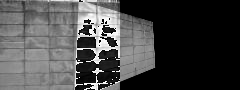
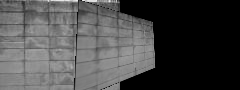
2017/6/19

Changed region(s): [[0.2917, 0.0, 0.525, 1.0]]

diff --git a/wall.py b/wall.py
@@ -66,8 +66,10 @@ M = np.float32([[1,0,0],[0,1,0]])
 tmp = cv2.warpAffine(img1,M,(240,90))
 cv2.imwrite("wall1.png",tmp)
 
+for j in range(tmp.shape[0]):
+    for i in range(tmp.shape[1]):
+        if dst[j,i] == 0:
+            dst[j,i] = tmp[j,i]
 
-result = tmp + dst
-
-plt.imshow(result)
-cv2.imwrite("wall12.png",result)
+plt.imshow(dst)
+cv2.imwrite("wall12.png",dst)
